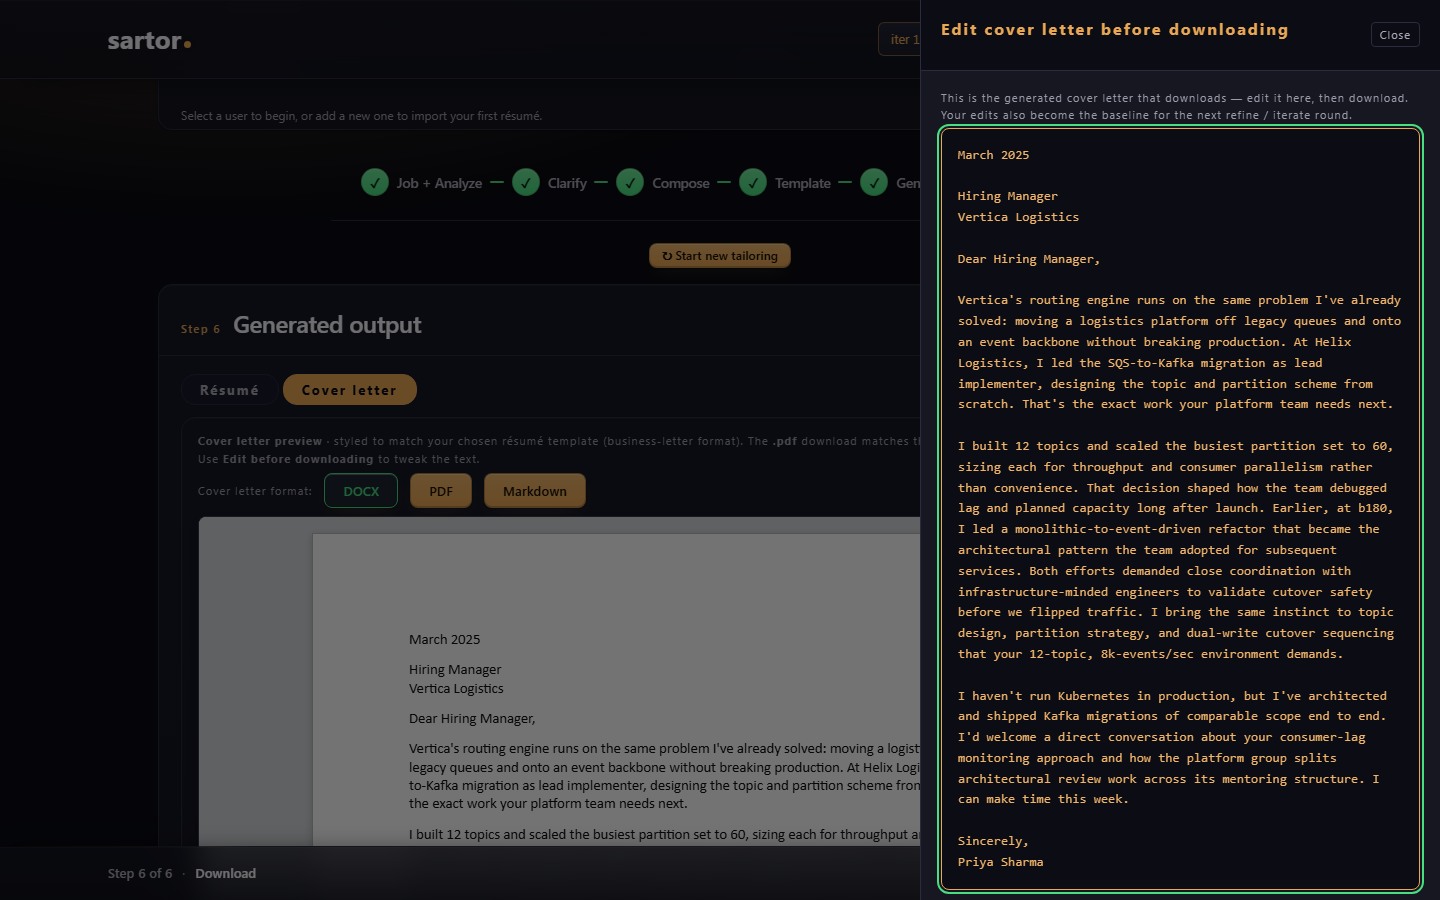
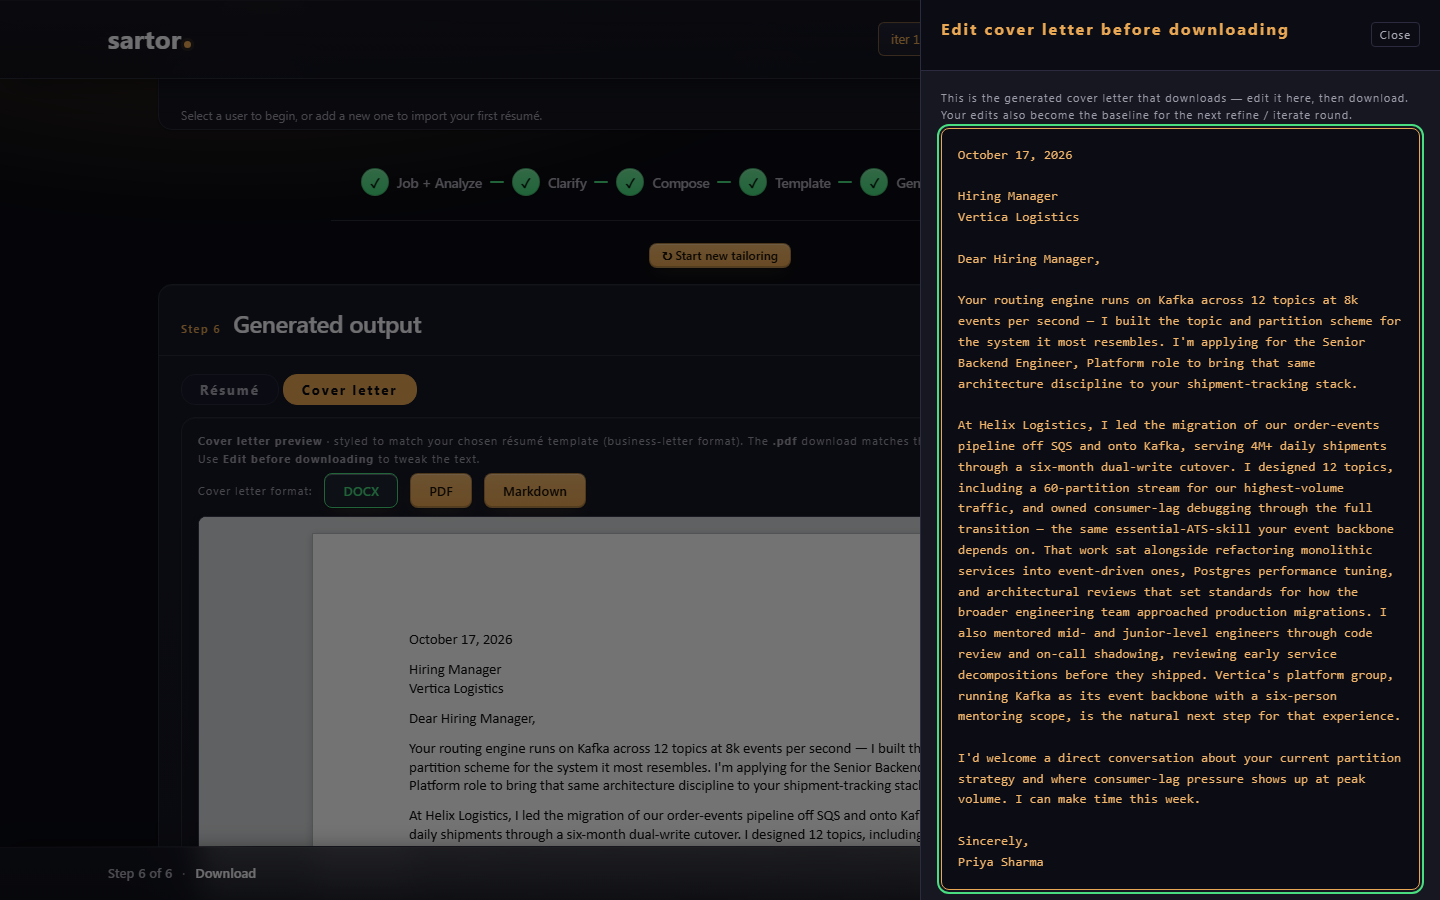
docs(screenshots): recapture the cover-letter walkthrough image; record the stall's cause (item 140)
With wait_cards() waiting for Compose.SETTLED the capture ran end to end. The
recaptured walkthrough_coverletter_first-generation.png was read: it is dated
October 17, 2026 and shows no id (the committed one showed b180 and March 2025).
Probe run 2 shows compositionStale false and reachable5 true at the click.
Spend 0.306 by telemetry. Item 140 stays open (score drop, carrier hypothesis);
the app-side race is recorded for the owner, not fixed.

diff --git a/docs/dev/work/items/0140-llm-output-leaks-bullet-ids-and-invents-letter-date.md b/docs/dev/work/items/0140-llm-output-leaks-bullet-ids-and-invents-letter-date.md
@@ -5,16 +5,17 @@ kind = "item"
 title = "LLM output leaks internal bullet ids (b173, b180) into user text, and the cover letter invents its date"
 status = "open"
 decision_owner = "agent"
-branches = ["feat/docs-assets-enforcement", "fix/llm-handle-leak-and-letter-date"]
+branches = ["feat/docs-assets-enforcement", "fix/llm-handle-leak-and-letter-date", "fix/capture-generate-stall"]
 refs = [
   "analyzer.py:_corpus_block",
   "analyzer.py:generate_cover_letter_against_resume",
   "docs/dev/diagnosis/llm-handle-leak-and-letter-date.md",
+  "docs/dev/diagnosis/capture-generate-stall.md",
   "docs/dev/blast-radius/llm-handle-leak-and-letter-date.md",
   "docs/screenshots/readme_hero_wizard-step1-filled.png",
   "docs/screenshots/walkthrough_coverletter_first-generation.png",
 ]
-summary = "Fix built and measured; open: cover-letter screenshot not recaptured, one fixture score drop unexplained."
+summary = "Fix built and measured; screenshots recaptured; open: one fixture score drop unexplained, hypothesis B untested."
 ```
 
 **Observed (2026-10-01, D4 screenshot capture, live Sonnet 5 run, synthetic Priya fixture).**
@@ -61,3 +62,22 @@ two acceptance parts are not met. The full record is `docs/dev/diagnosis/llm-han
 - **Seen, not fixed here:** `_parse_or_retry`'s retry drops `max_tokens`; `pm-senior` generate mode intermittently gets
   an empty response (`Expecting value`); `evals/fixtures/synthetic/corpus` is picked up as a fixture and fails to
   load; analyses saved before the fix that already contain ids will keep feeding later prompts.
+
+**2026-10-17, `fix/capture-generate-stall`.** Open 1 is closed: the cover-letter screenshot is recaptured. The full record
+is `docs/dev/diagnosis/capture-generate-stall.md`.
+
+- **Cause (observed, then confirmed):** the capture script returned from `WizardComposePage.wait_cards()` at the first
+  experience card and clicked Save and continue while Compose's arrival `draft_summary` call was still in flight. The
+  freeze stamped its digest first, the draft then wrote `composition_overrides.summary_text`, the approval went stale, and
+  `wizardGoTo(5)` refused with the app's own "You changed your composition after approving it" toast. It was not the
+  item-139 stale rows. Probe run 1 recorded the state and the toast; a route-level test confirms that a draft persisted
+  after the freeze stales the approval.
+- **Fix:** `wait_cards()` also waits for `Compose.SETTLED` (the gate every UX-suite path already used). A recording-page
+  test fails without it. No app code changed.
+- **Verified:** one live capture ran end to end; `walkthrough_coverletter_first-generation.png` was read and shows
+  "October 17, 2026" and no id. Spend `$0.306` (telemetry).
+- **Still open on this item:** Open 2 (the `data-scientist-junior` score drop) and the untested carrier hypothesis. Whether
+  to close the item over them, with a `closure_exception`, is the owner's call.
+- **Declared, not fixed (the owner's call):** a real user who clicks Save and continue while an arrival draft is in flight
+  hits the same lock, with a message saying they changed something they did not. `TestDraftLandingAfterTheFreeze`
+  pins today's behavior and says it is not a statement that it is right.

diff --git a/docs/dev/diagnosis/capture-generate-stall.md b/docs/dev/diagnosis/capture-generate-stall.md
@@ -1,6 +1,8 @@
 # Diagnosis — screenshot capture stalls at Template → Generate (item 140, part a)
 
-> **Status:** hypothesis only. Cause NOT established; the instrument has not run yet.
+> **Status:** cause of the capture stall established (observed in run 1, mechanism confirmed at route level, fix
+> verified by one passing live run). Whether the APP should protect a user from the same race is open and is the
+> owner's call.
 > **Branch:** `fix/capture-generate-stall`
 
 ---
@@ -117,6 +119,29 @@ persists a summary. No rerun is shown in the output. **The mechanism is confirme
 draft that lands after the freeze stales the approval. What stays unobserved is that THIS is what happened inside run 1
 (the digest itself was not recorded), so the sequence in run 1 is "consistent with" it, with the draft's persist as the
 only context writer between the two `GET /composition` calls.
+
+### Probe run 2, after the fix (2026-10-17 22:08:32Z to 22:10:38Z, commit `91e6cf2`)
+
+Command: `python -m scripts.capture_stall_probe --out <scratchpad>/stall_probe_run2.jsonl --headless` (no `--keep-user`).
+
+```text
+✓ capture complete in 125.2s
+  · removed configs\demo.config / resumes\demo / output\demo / scripts\_tmp_capture
+PROBE_DONE ec=0
+```
+
+- The same snapshot that failed in run 1 now reads (probe lines 52 and 61): `before_click` `wizardStep 4`,
+  `compositionFrozen true`, **`compositionStale false`**, **`reachable5 true`**; `after_click_ok` `wizardStep 5`. No
+  `pageerror`, no `dialog`, no `continue_to_generate_failed`, `end status 0`.
+- **The recaptured `docs/screenshots/walkthrough_coverletter_first-generation.png` was read:** the letter (editor and
+  preview) is dated "October 17, 2026", the run date, and shows no `b`/`e`/`t` id. The committed image it replaces
+  showed `b180` and `March 2025`. `walkthrough_step6_download-with-refine.png` from the same run was also read and
+  shows no id; it and the other eight PNGs the script overwrote were restored with `git checkout`, so only the
+  cover-letter image changes.
+- **Spend, by `compute_call_cost` over the telemetry rows of each window:** run 1 `$0.114` (5 calls), run 2 `$0.192`
+  (7 calls), `$0.306` in total; the cap for this item was about `$0.45`.
+- n = 1 passing run. One pass does not show the stall cannot recur: the app-side race is still there for any caller
+  that clicks Save-and-continue early.
 
 ---
 

diff --git a/CHANGELOG.md b/CHANGELOG.md
@@ -34,9 +34,13 @@ and **b173**", and the cover letter said "Earlier, at **b180**, I led…" under 
   rationale or note is accepted and logged. **Cost:** the re-ask is an extra model call. In the last check, 4 of
   6 analyses needed one before the analysis prompts were reworded (about 16% of that run's spend and 20 seconds
   per analysis); after the rewording, 1 call across the 2 analyses re-run.
-- **Not fixed:** `docs/screenshots/walkthrough_coverletter_first-generation.png` still shows the old text. The
-  capture script stopped before the cover letter step and the cause is not established. The README hero
-  screenshot was recaptured and shows no ids.
+- **Fixed: the cover letter screenshot.** `docs/screenshots/walkthrough_coverletter_first-generation.png` is
+  recaptured; it shows today's date and no id, as do the README hero screenshot and the résumé screenshot. The
+  capture script had stopped before it: it clicked "Save and continue" while Compose was still drafting your
+  positioning summary, the draft landed after the approval, and Generate refused to open. It now waits for Compose
+  to settle first (`fix/capture-generate-stall`). **Not changed:** the app itself still behaves that way for a person
+  who clicks "Save and continue" inside the same few seconds; that is recorded for the owner to decide
+  (`docs/dev/diagnosis/capture-generate-stall.md`).
 - **Not explained:** the grounding score of one eval fixture (a deliberately mismatched corpus) dropped after
   these prompt changes; whether that is the change or run-to-run variance is not established
   (`docs/dev/diagnosis/llm-handle-leak-and-letter-date.md`).
